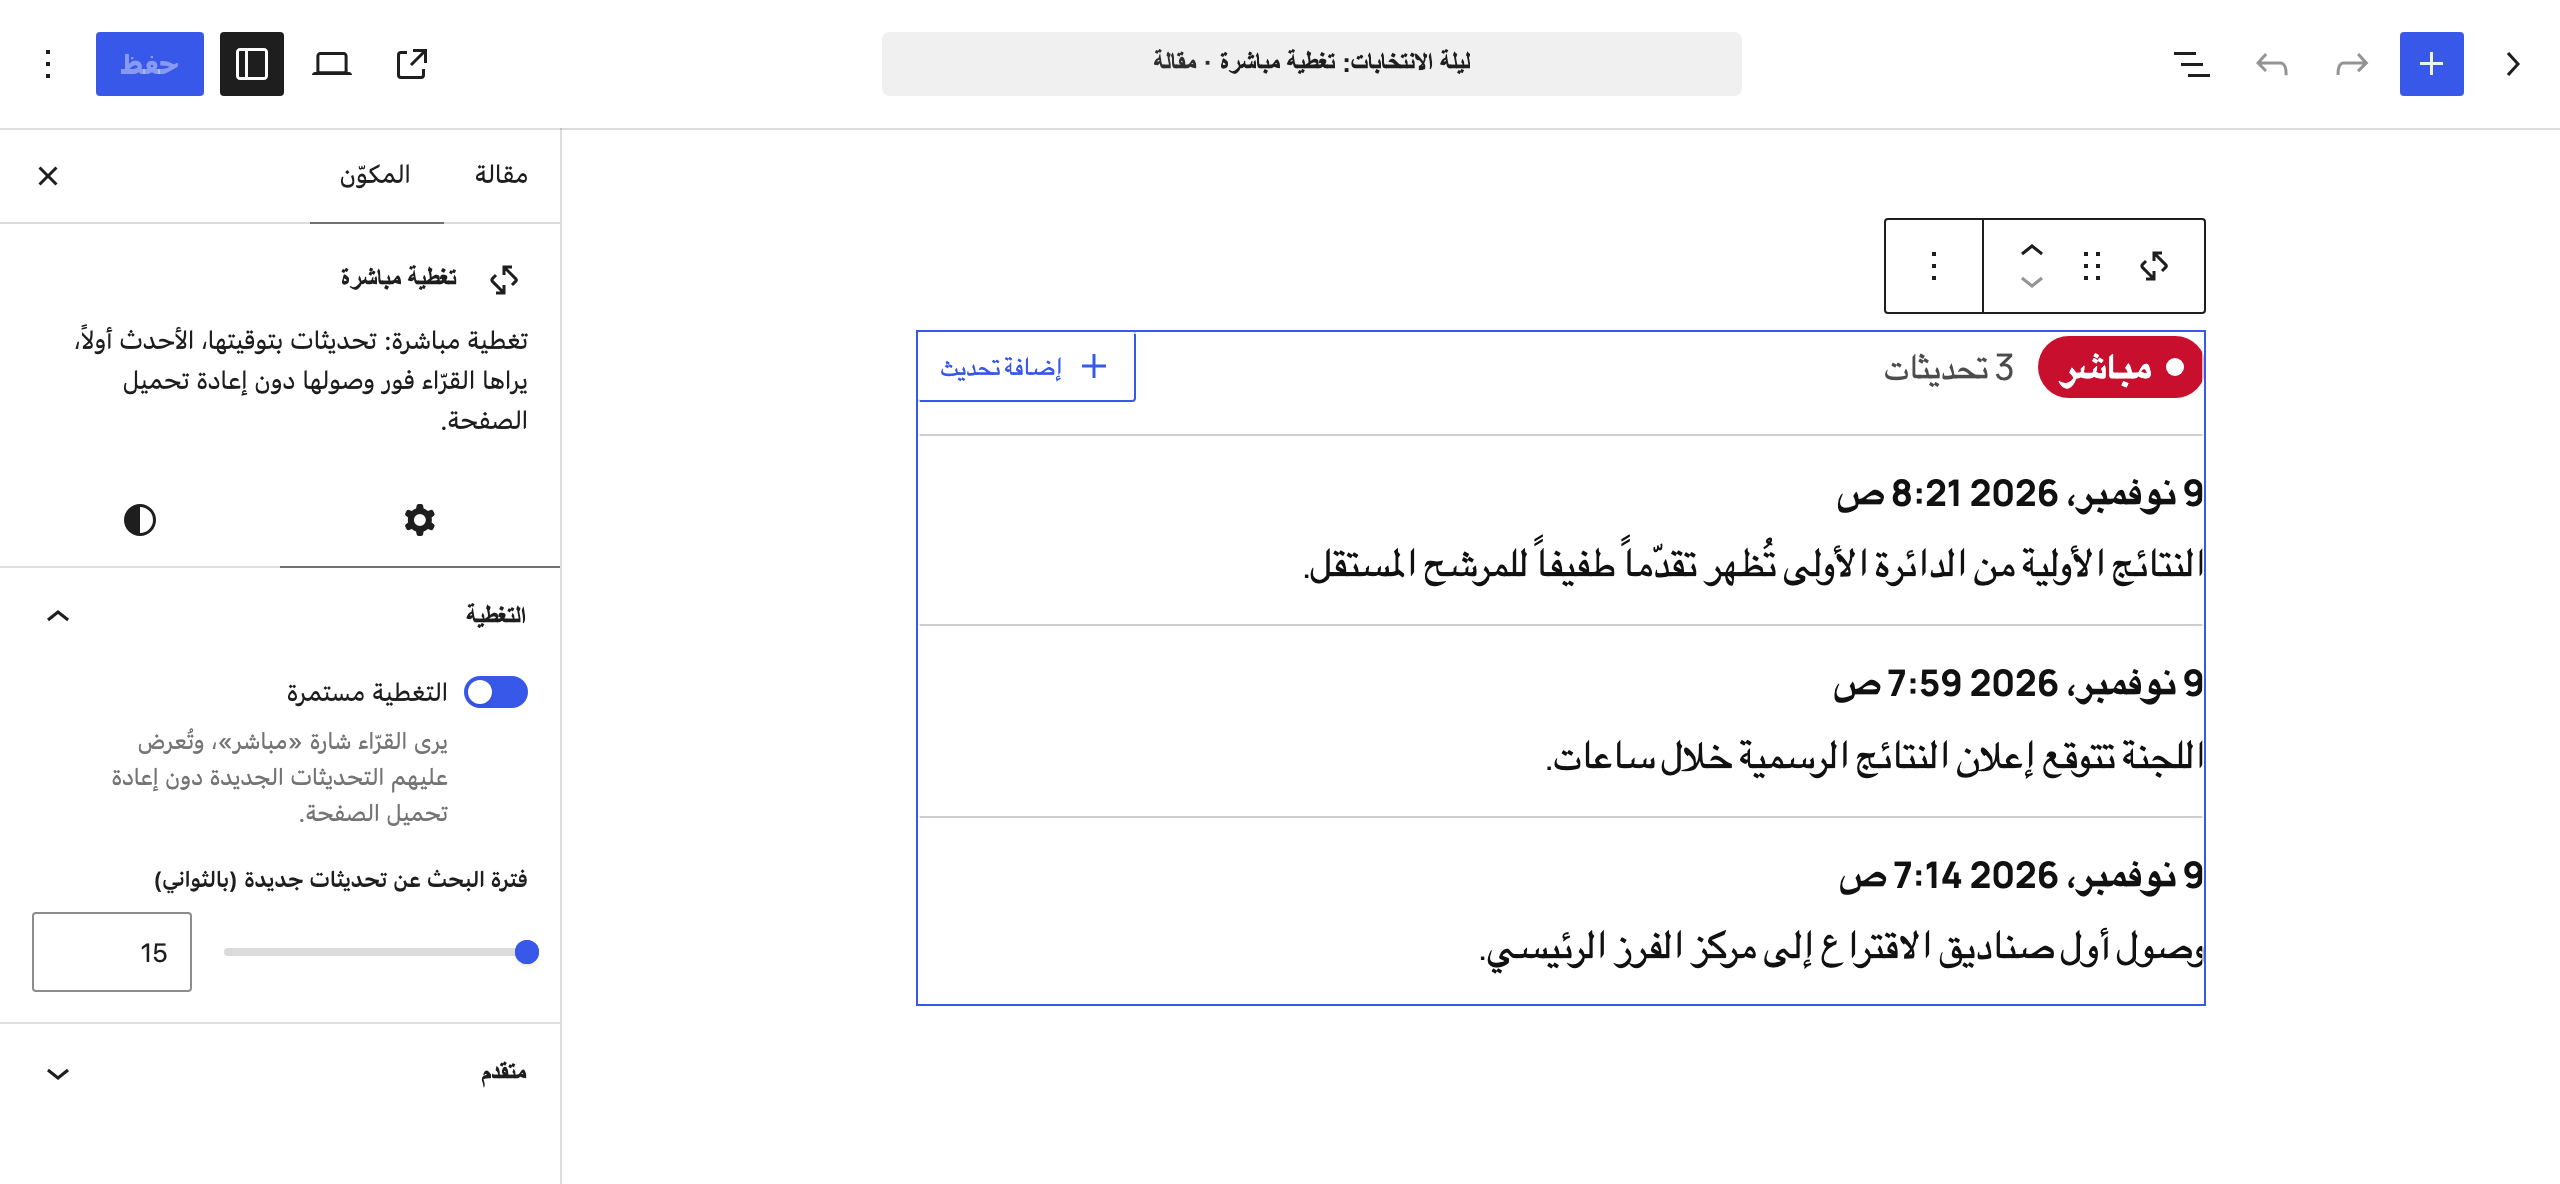
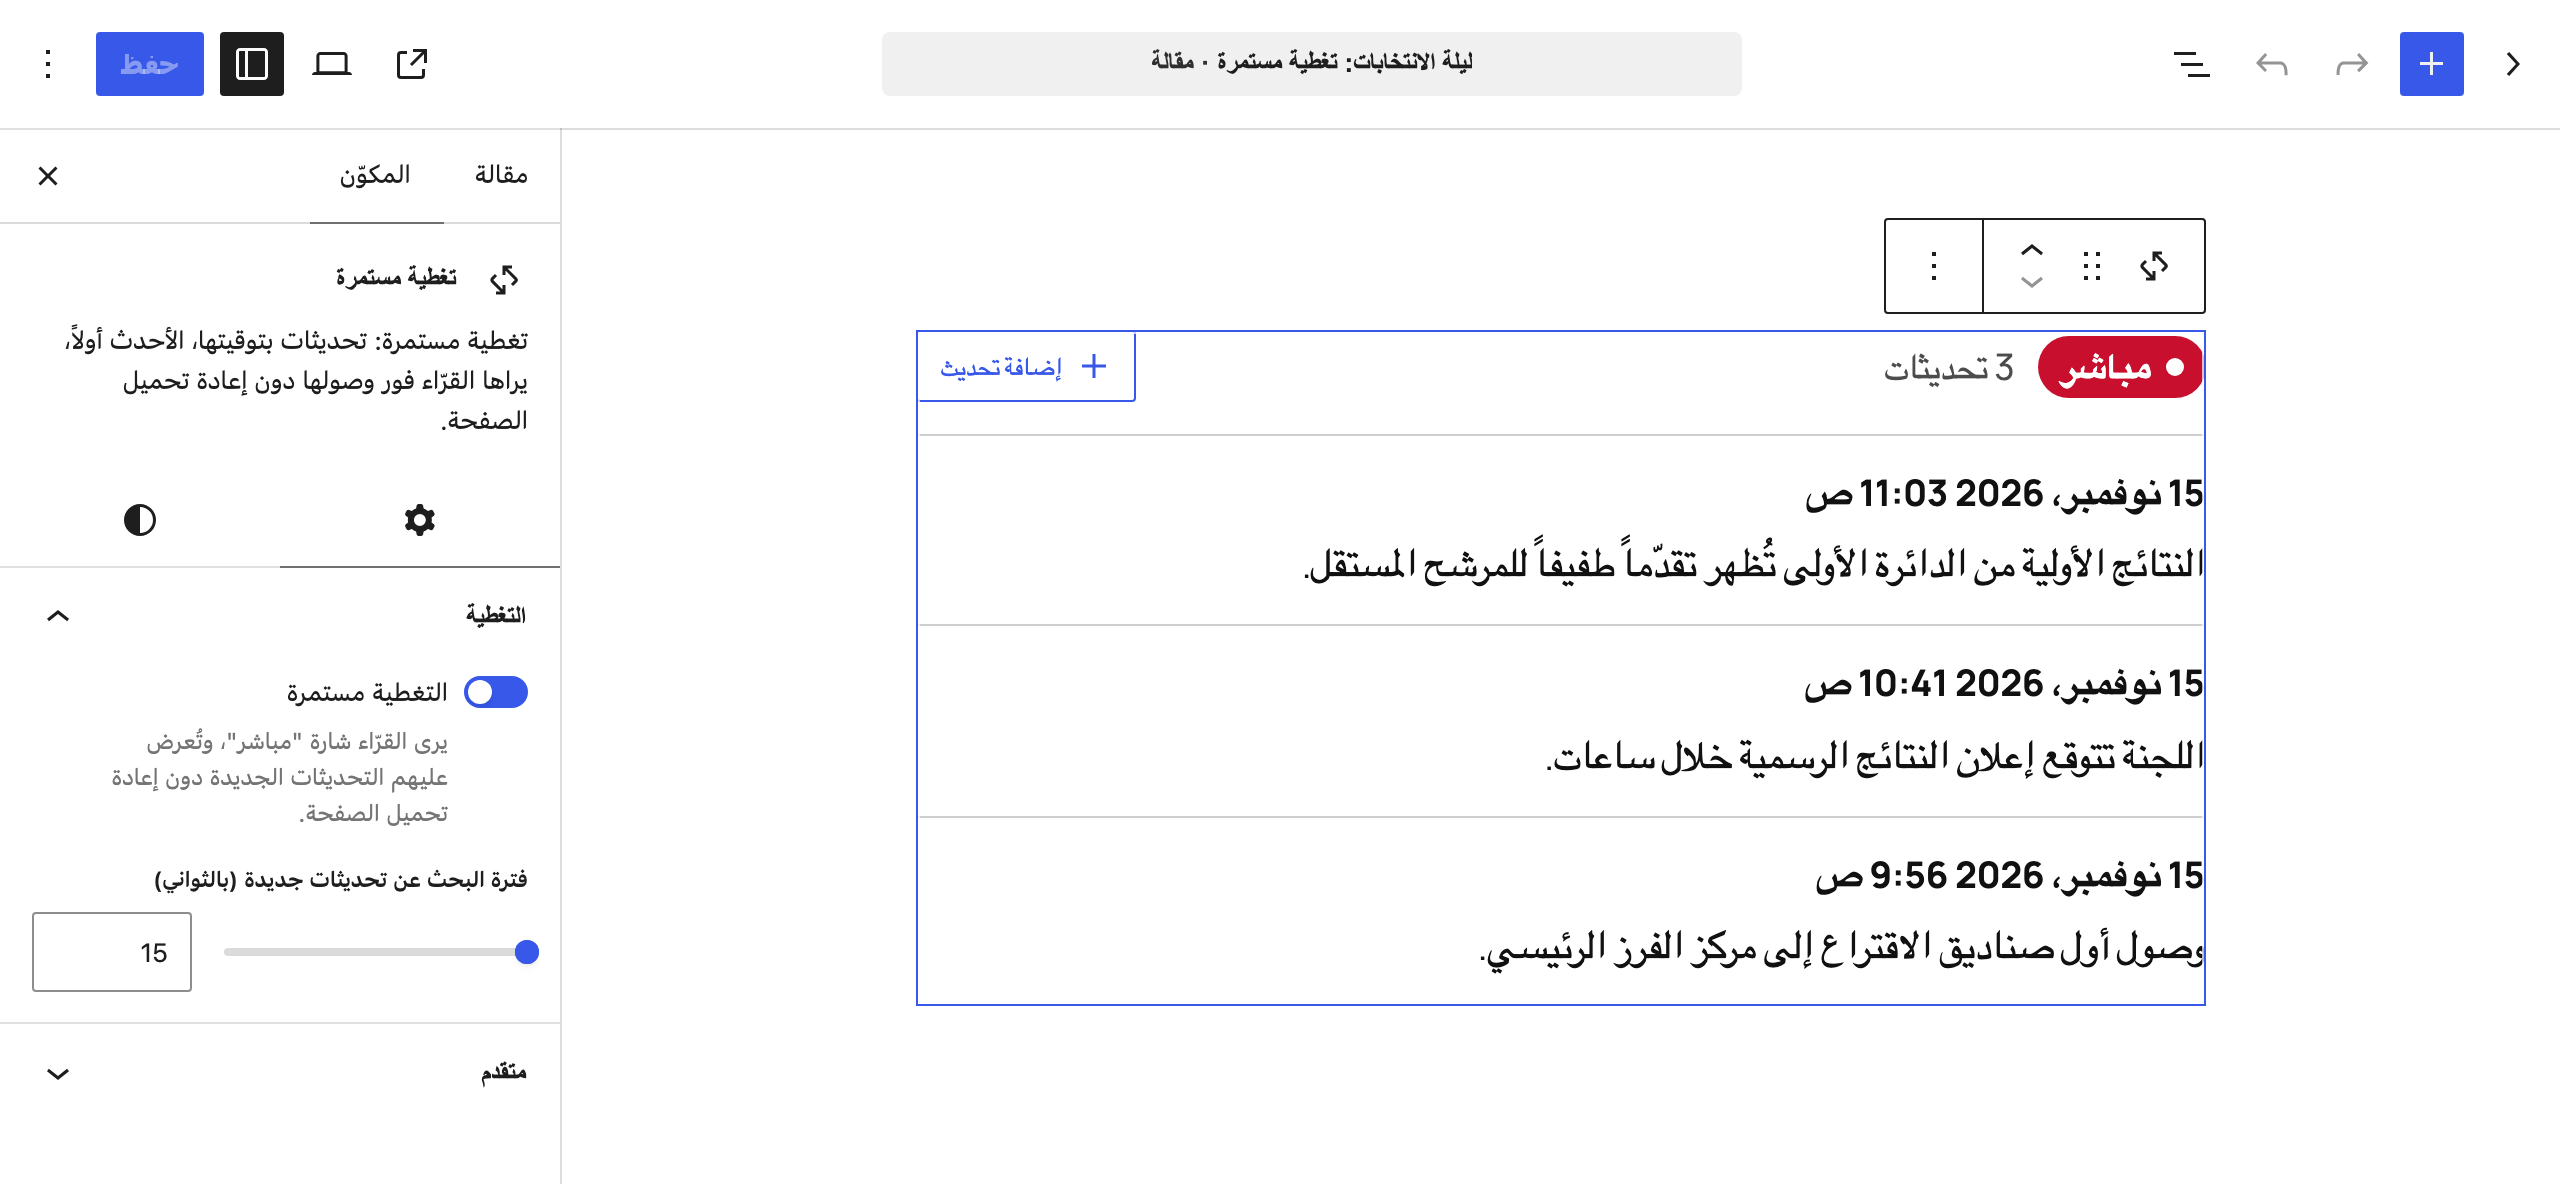
i18n: the Arabic live blog is تغطية مستمرة, in straight quotes
The review of the Arabic readme settled the block's name: تغطية مستمرة
(ongoing coverage) rather than تغطية مباشرة. The bundled translation
follows, so the inserter, the block's description, the plugin
description and the description of a single update use the name the
readme uses, and so does the title of the Arabic demo story. Quoted
labels use straight double quotes instead of guillemets. The MO and
JSON files are rebuilt; the JSON diff is the revision date and the one
editor string that had guillemets.

Of the screenshots, only the three that show the name are retaken: the
Arabic editor (5-ar) and the Arabic story (1-ar, which is also
screenshot 2 for English visitors). The others only had newer dates
and are left as they were.

The Live badge (مباشر), the single update block (تحديث مباشر), the
screen reader label of the updates (التحديثات المباشرة) and the
keyword for live blog (مدونة مباشرة) are unchanged.

diff --git a/demo/seed.php b/demo/seed.php
@@ -28,7 +28,7 @@ function seed(): void {
 			'تحذير من عاصفة على الساحل'                    => 90,
 		),
 		'related'   => array( 'كيف يجري فرز الأصوات', 'خمسة أمور ينبغي معرفتها قبل يوم الاقتراع' ),
-		'title'     => 'ليلة الانتخابات: تغطية مباشرة',
+		'title'     => 'ليلة الانتخابات: تغطية مستمرة',
 		'author'    => 'غرفة الأخبار',
 		'section'   => 'الانتخابات',
 		'intro'     => 'بدأ فرز الأصوات بعد يوم شهد إقبالاً كبيراً على مراكز الاقتراع في أنحاء المدينة.',

diff --git a/CHANGELOG.md b/CHANGELOG.md
@@ -2,6 +2,11 @@
 
 All notable changes to **ManTek Newsroom Blocks** are documented here. The format follows [Keep a Changelog](https://keepachangelog.com/en/1.1.0/), and the project adheres to [Semantic Versioning](https://semver.org/spec/v2.0.0.html).
 
+## [Unreleased]
+
+### Changed
+- Arabic: the live blog block is called تغطية مستمرة (ongoing coverage) instead of تغطية مباشرة, in the inserter, in its description and in the plugin description, and quoted labels use straight double quotes. The Arabic demo story and screenshots follow.
+
 ## [0.9.0]
 
 ### Added
@@ -15,4 +20,5 @@ All notable changes to **ManTek Newsroom Blocks** are documented here. The forma
 - Arabic translation, with all six Arabic plural forms.
 - Tests: PHPUnit with Brain Monkey, Vitest, and Playwright end-to-end tests in English and Arabic on WordPress Playground. CI runs them on PHP 8.1 and 8.4, and on WordPress 6.8 and the latest version.
 
+[Unreleased]: https://github.com/mantekio/wp-newsroom-blocks/compare/v0.9.0...HEAD
 [0.9.0]: https://github.com/mantekio/wp-newsroom-blocks/releases/tag/v0.9.0
